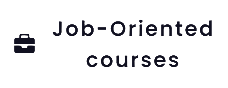
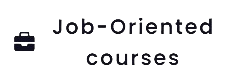
Update button labels and adjust layout for improved user experience

diff --git a/Task_23-06-2026/style.css b/Task_23-06-2026/style.css
@@ -1,7 +1,7 @@
 .Navbar{
-    width: 2000px;
-    height: 175px;
-    margin: 40px;
+    width: 1650px;
+    height: 100px;
+    margin: 5px;
     display: flex;
     justify-content: space-between;
     align-items: center;
@@ -11,58 +11,66 @@
 }
 
 .Hero{
-    width: 2000px;
-    height: 800px;
-    margin: 40px;
+    width: 1650px;
+    height: 3390px;
+    margin: 5px;
     border: 2px solid black;
     padding: 10px;
     
 }
 
 .Section1{
-    width: 1900px;
-    height: 120px;
-    margin: 40px;
+    width: 1615px;
+    height: 740px;
+    margin: 5px;
     border: 2px solid black;
     padding: 10px;
 }
 
 .Section2{
-    width: 1900px;
-    height: 120px;
-    margin: 40px;
+    width: 1615px;
+    height: 1000px;
+    margin: 5px;
     border: 2px solid black;
     padding: 10px;
 }
 
 .Section3{
-    width: 1900px;
-    height: 120px;
-    margin: 40px;
+    width: 1615px;
+    height: 500px;
+    margin: 5px;
     border: 2px solid black;
     padding: 10px;
 }
 
 .Section4{
-    width: 1900px;
-    height: 120px;
-    margin: 40px;
+    width: 1615px;
+    height: 600px;
+    margin: 5px;
+    border: 2px solid black;
+    padding: 10px;
+}
+
+.Section5{
+    width: 1615px;
+    height: 400px;
+    margin: 5px;
     border: 2px solid black;
     padding: 10px;
 }
 
 .Footer{
-    width: 2000px;
-    height: 800px;
-    margin: 40px;
+    width: 1650px;
+    height: 500px;
+    margin: 5px;
     border: 2px solid black;
     padding: 10px;
 }
 
 .Logo{
-    width: 1000px;
-    height: 110px;
-    margin: 20px;
+    width: 400px;
+    height: 80px;
+    margin: 5px;
     /* margin-top: -10px; */
     border: 2px solid black;
     padding: 10px;
@@ -73,9 +81,9 @@
 }
 
 .nav-links{
-    width: 800px;
-    height: 110px;
-    margin: 20px;
+    width: 400px;
+    height: 80px;
+    margin: 5px;
     border: 2px solid black;
     padding: 10px;
     display: flex;
@@ -86,9 +94,9 @@
 }
 
 .nav-buttons{
-    width: 1000px;
-    height: 110px;
-    margin: 20px;
+    width: 400px;
+    height: 80px;
+    margin: 5px;
     border: 2px solid black;
     padding: 10px;
     display: flex;
@@ -99,14 +107,24 @@
 }
 
 .Button1{
-    height: 100px;
+    height: 42px;
+    width: 120px;
     padding: 10px;
     background-color: white;
+    display: flex;
+    justify-content: center;
+    align-items: center;
+    
 }
 
 .Button2{
-    height: 100px;
+    height: 42px;
+    width: 120px;
     padding: 10px;
+    background-color: white;
+    display: flex;
+    justify-content: center;
+    align-items: center;
 }
 
 ul.nav-links{

diff --git a/Task_23-06-2026/index.html b/Task_23-06-2026/index.html
@@ -23,12 +23,14 @@
     <div class="nav-buttons">
       <div class="Button1">
         <button>
-          <img src="Job_Oriented_Button.png" alt="Job_Oriented_Button">
+          Job Oriented <br> courses
+          <!-- <img src="Job_Oriented_Button.png" alt="Job_Oriented_Button"> -->
         </button>
       </div>
       <div class="Button2">
         <button>
-          <img src="Free_SEO_Tools_Button.png" alt="Free_SEO_Tools_Button">
+          Free SIO <br> Tools
+          <!-- <img src="Free_SEO_Tools_Button.png" alt="Free_SEO_Tools_Button"> -->
         </button>
       </div>
     </div>
@@ -49,6 +51,10 @@
 
     <div class="Section4">
     <p>This is the Section 4</p>
+    </div>
+
+    <div class="Section5">
+    <p>This is the Section 5</p>
     </div>
   </div>
   